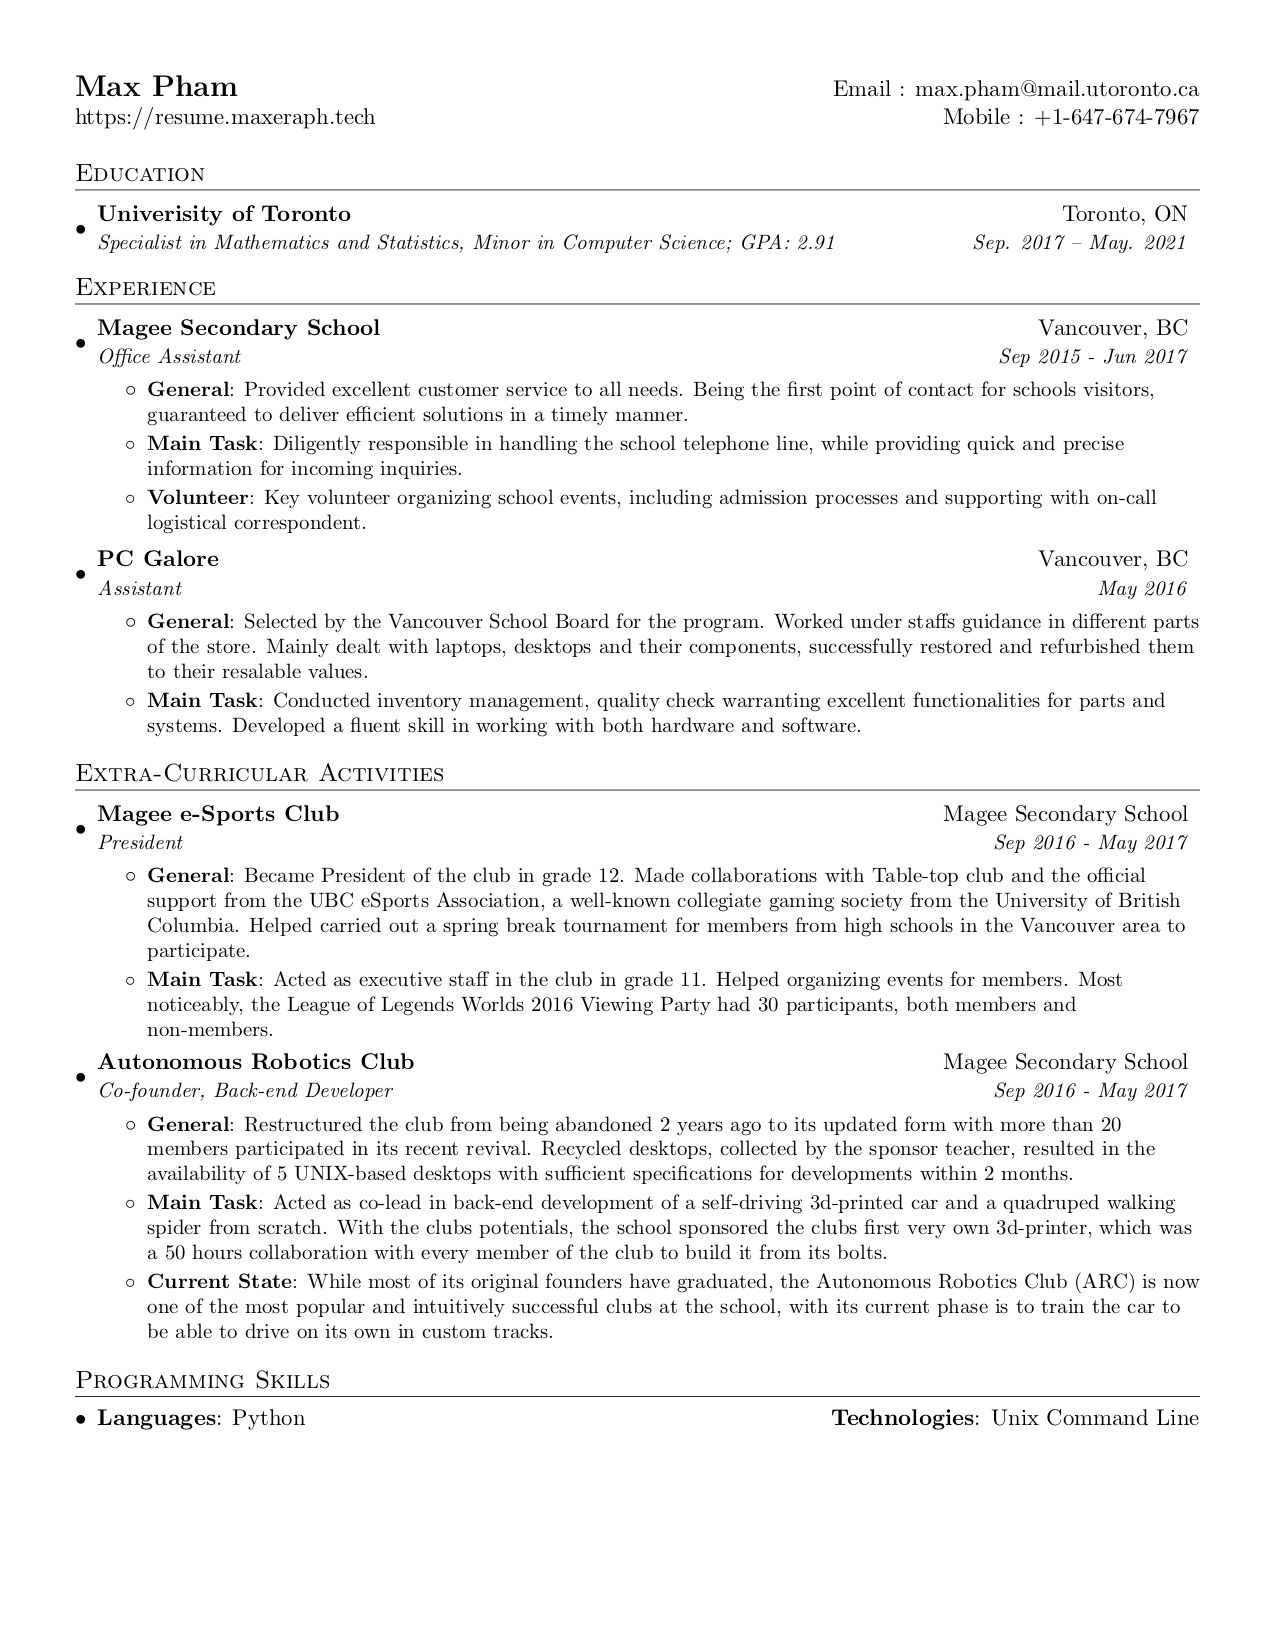
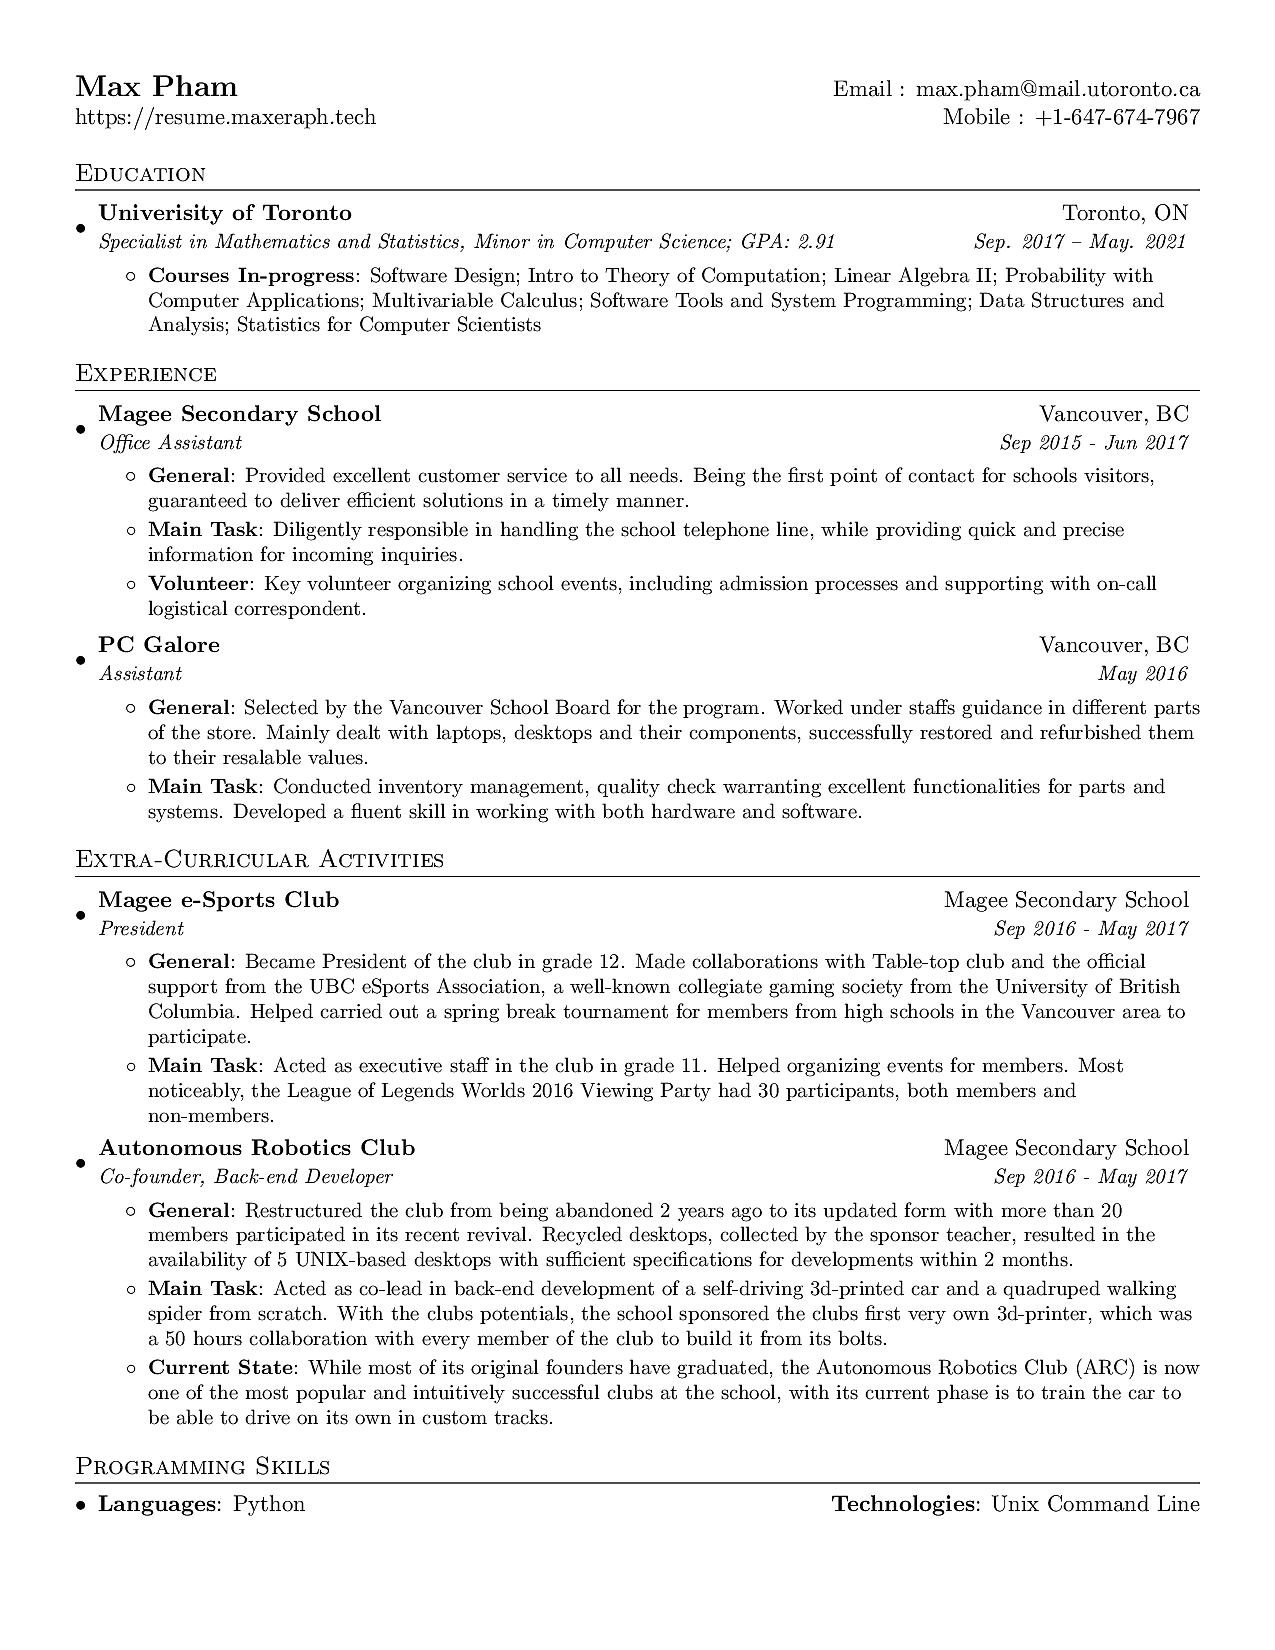
pdflatex can now change preview photo

diff --git a/max_resume.tex b/max_resume.tex
@@ -85,13 +85,23 @@
     \resumeSubheading
       {Univerisity of Toronto}{Toronto, ON}
       {Specialist in Mathematics and Statistics, Minor in Computer Science;  GPA: 2.91}{Sep. 2017 -- May. 2021}
+      \resumeItemListStart
+        \resumeItem{Courses In-progress}
+          {Software Design;
+          Intro to Theory of Computation;
+          Linear Algebra II;
+          Probability with Computer Applications;
+          Multivariable Calculus;
+          Software Tools and System Programming;
+          Data Structures and Analysis; 
+          Statistics for Computer Scientists}
+      \resumeItemListEnd
   \resumeSubHeadingListEnd
 
 
 %-----------EXPERIENCE-----------------
 \section{Experience}
   \resumeSubHeadingListStart
-
     \resumeSubheading
       {Magee Secondary School}{Vancouver, BC}
       {Office Assistant}{Sep 2015 - Jun 2017}
